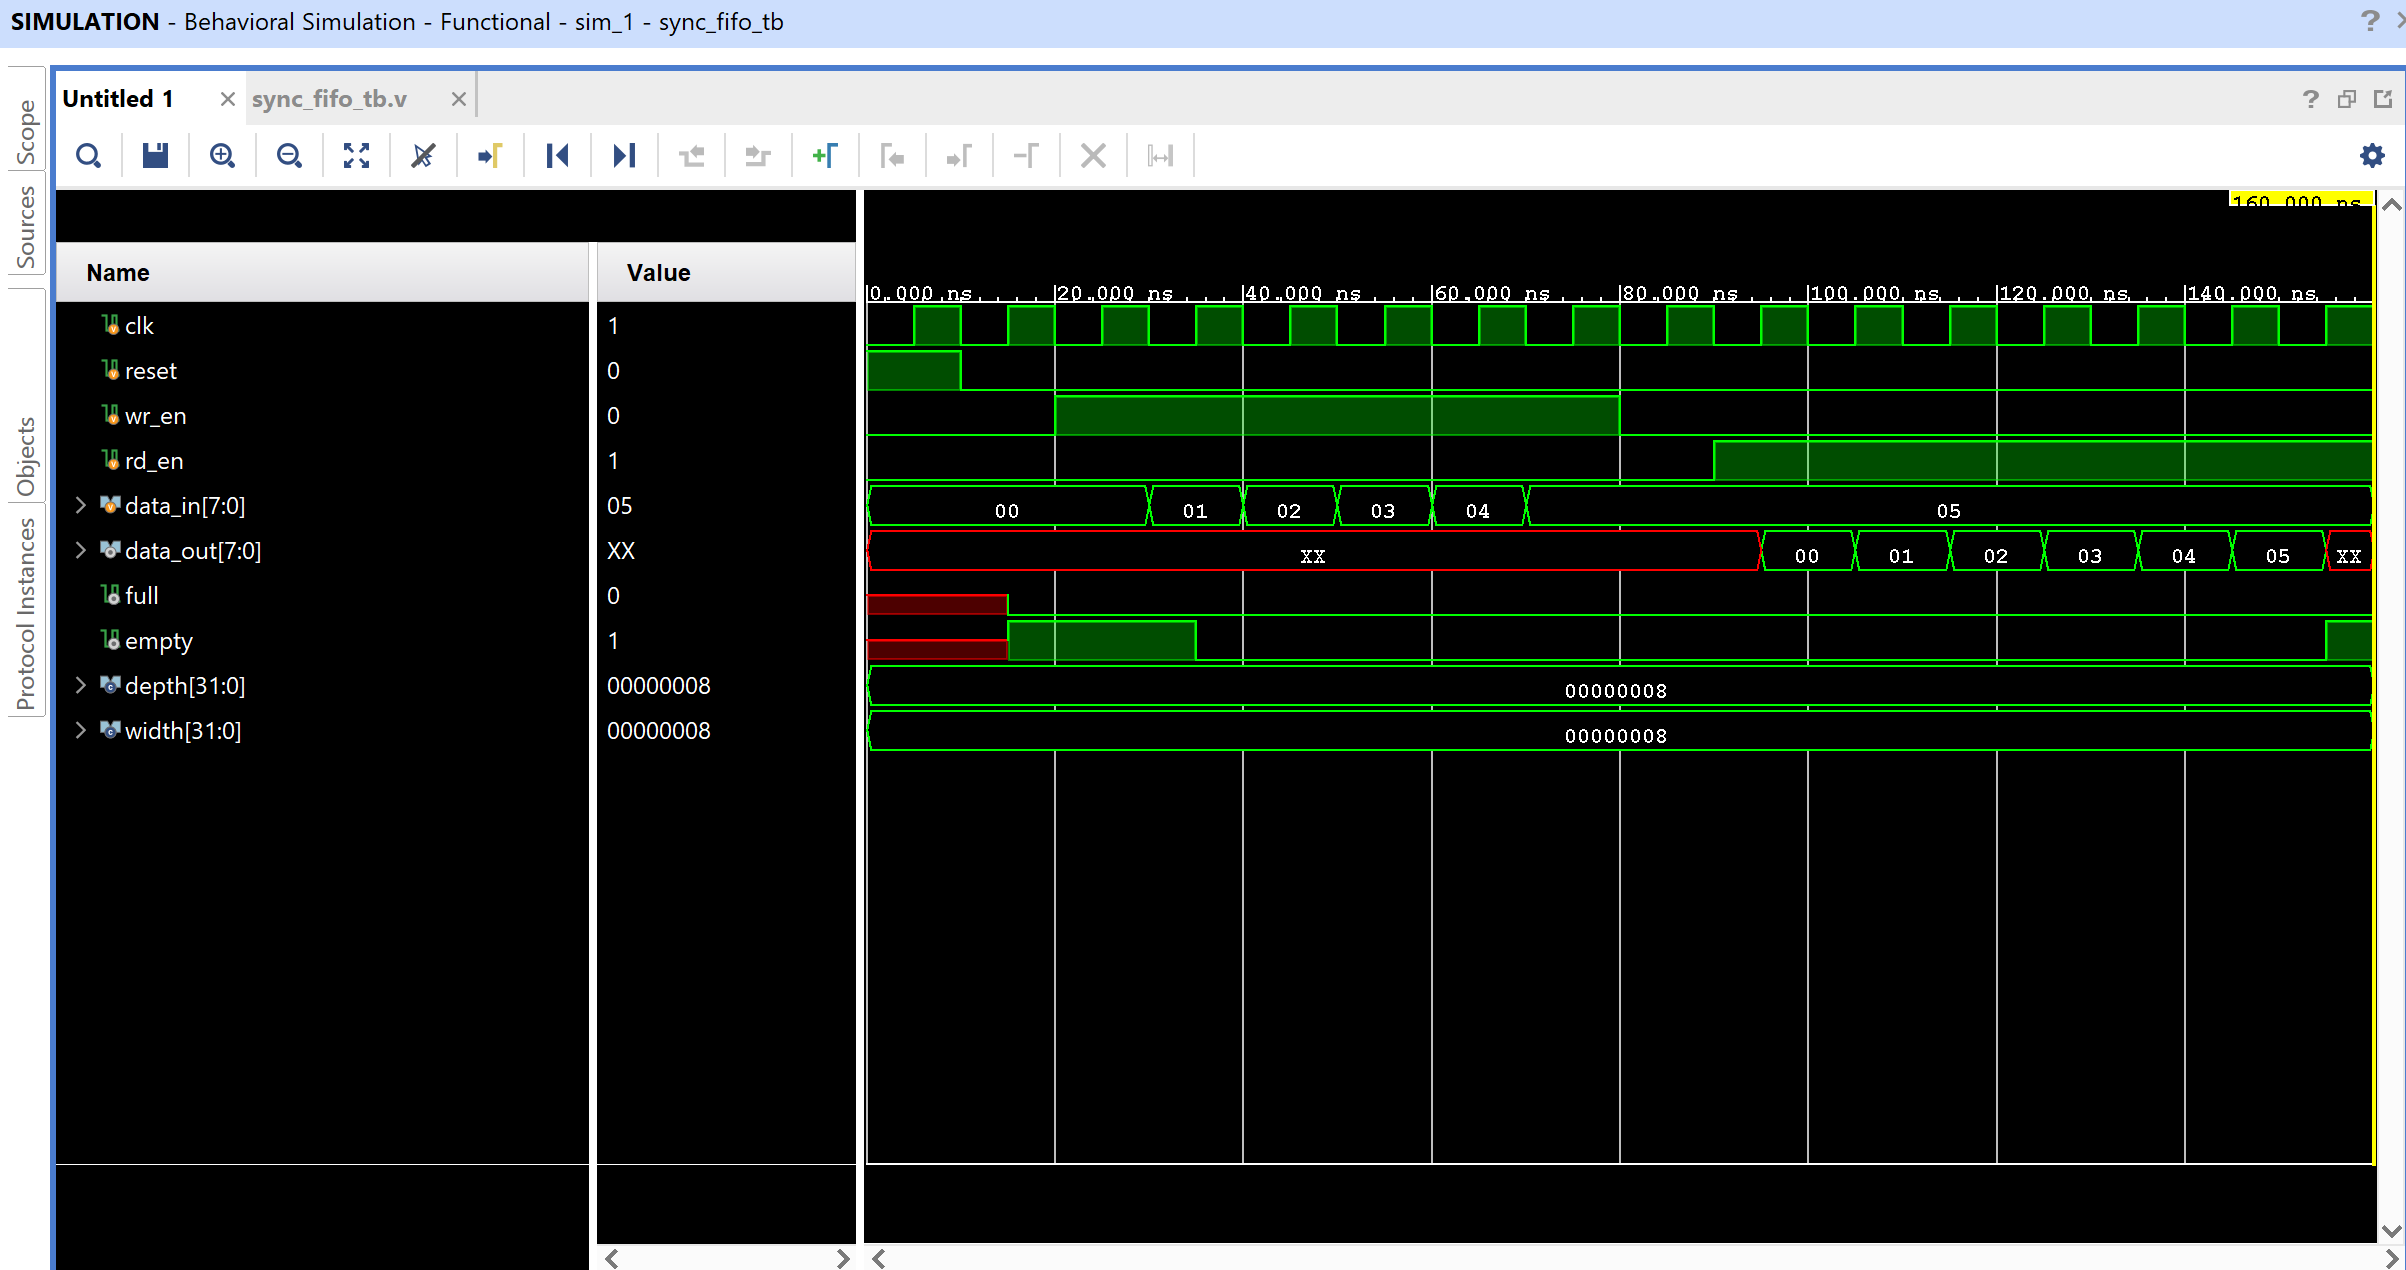
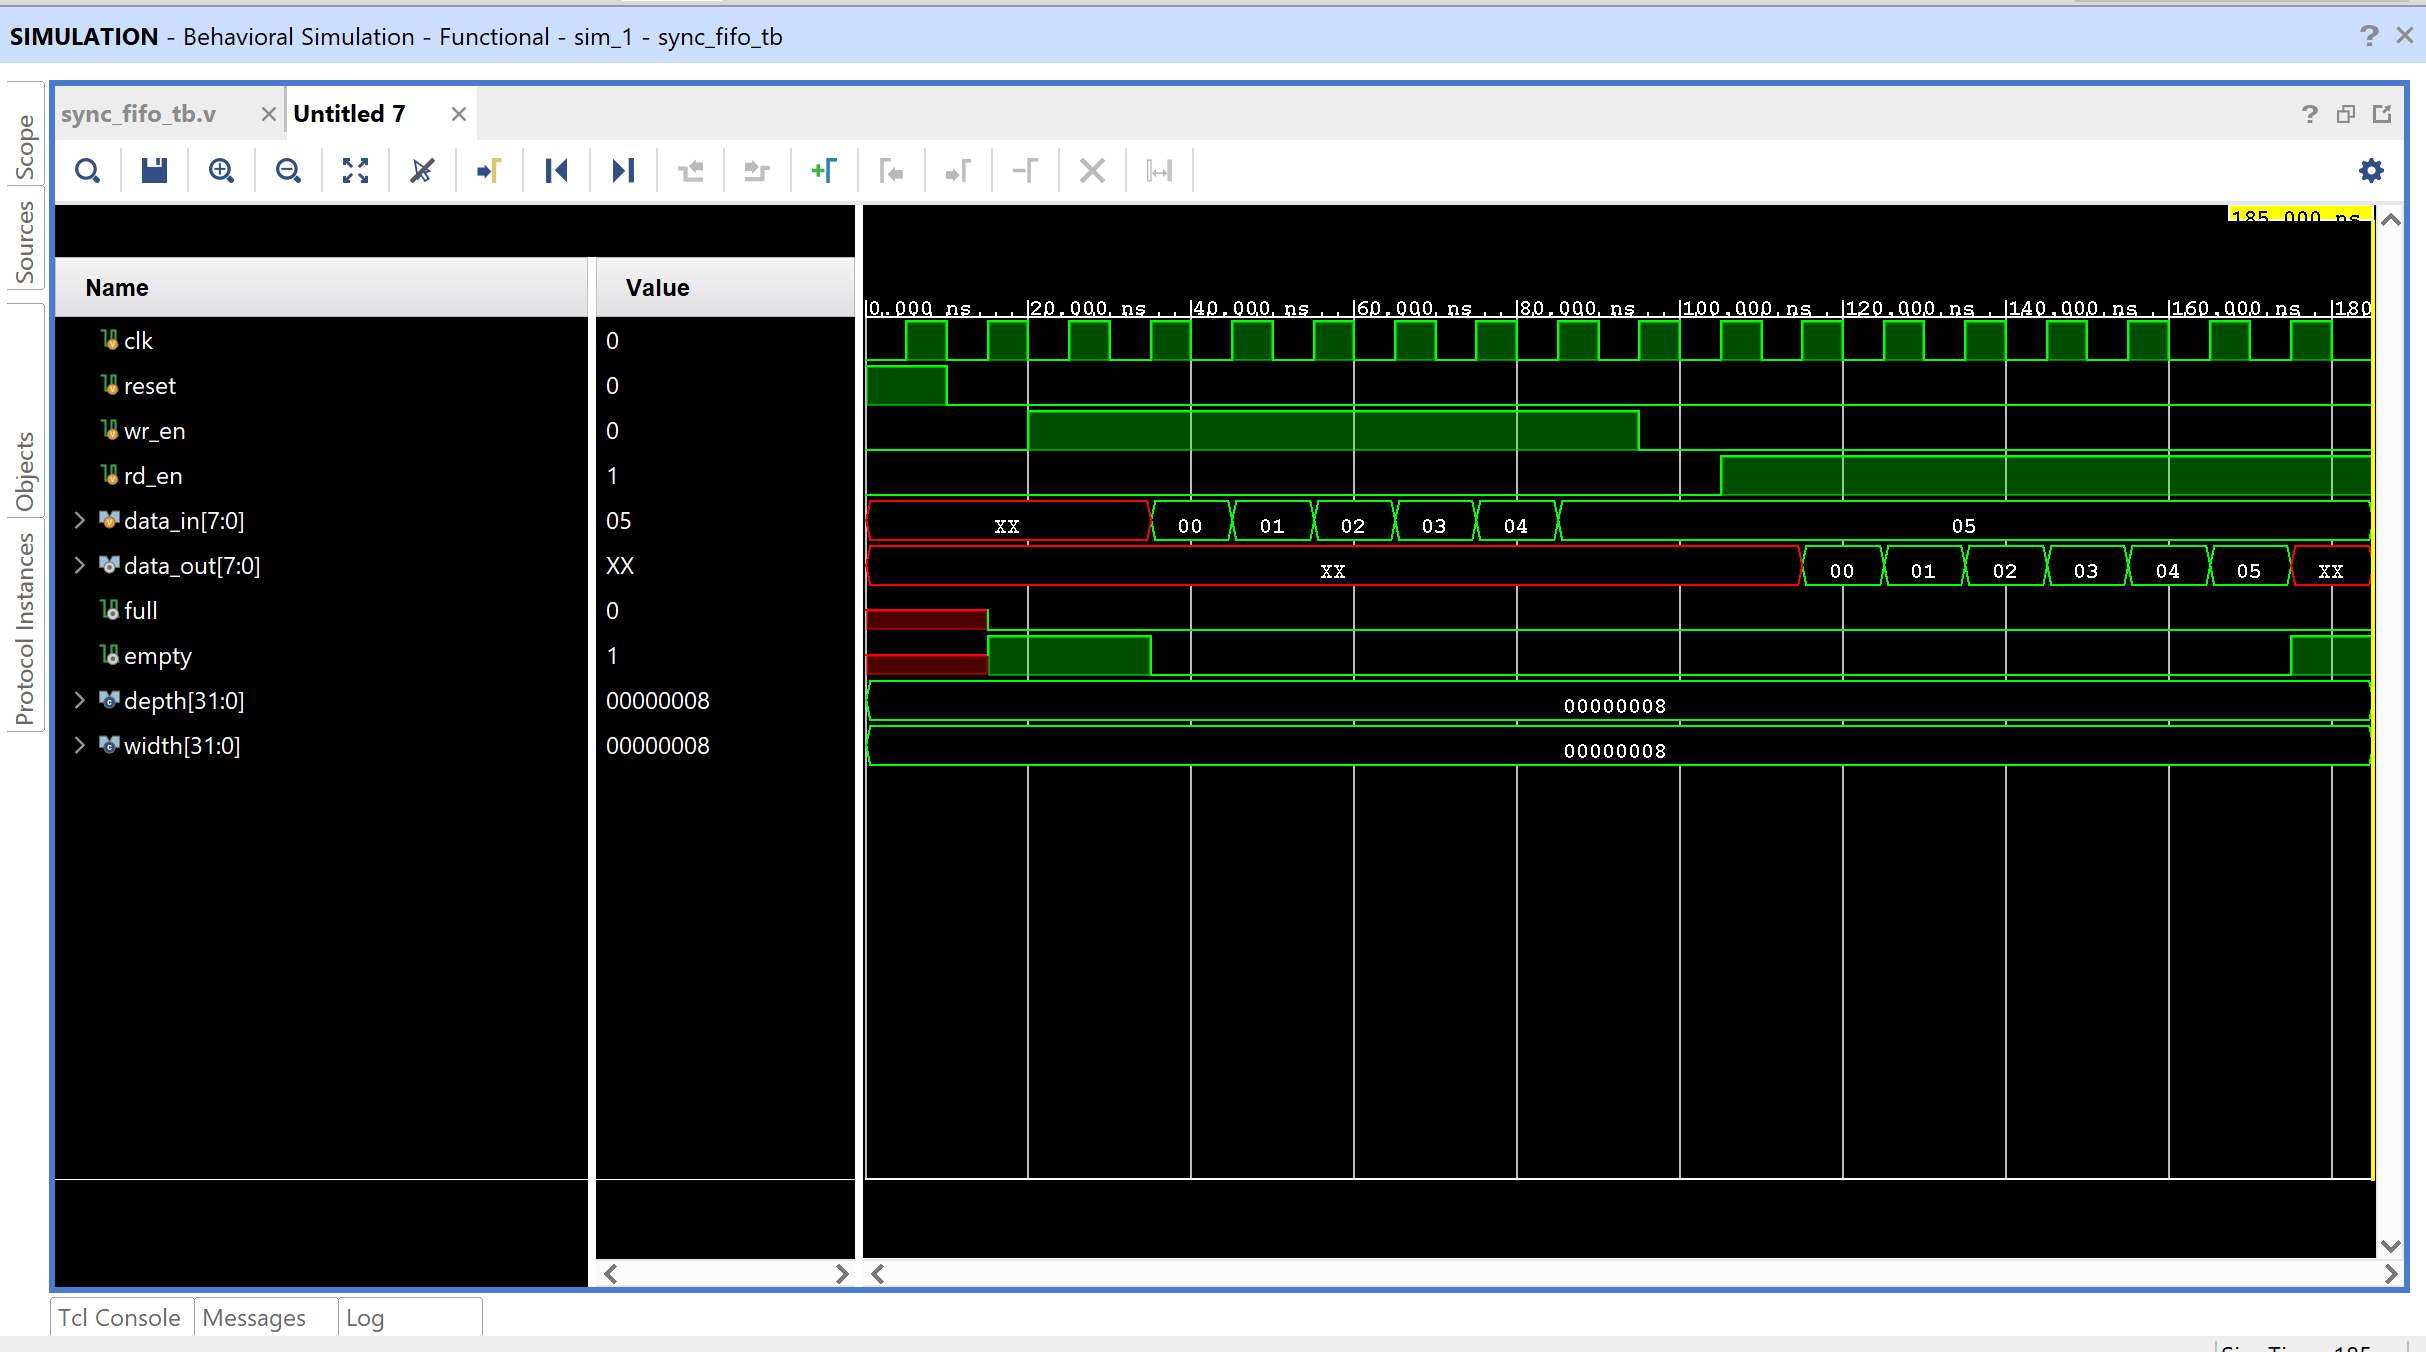
final

diff --git a/readme.md b/readme.md
@@ -12,23 +12,35 @@ This project implements a **parameterized synchronous FIFO** (First-In-First-Out
 
 ---
 
-## 📁 Files Included
-| File Name        | Description                                |
-|------------------|--------------------------------------------|
-| `sync_fifo.v`     | Main FIFO module                          |
-| `sync_fifo_tb.v`  | Testbench for simulation                  |
-| `waveform.png`    | Simulation waveform output                |
-| `README.md`       | Project documentation                     |
+## 🧾 Variables Table
+| Variable     | Type              | Description                                    |
+|--------------|-------------------|------------------------------------------------|
+| `data_in`    | Input [width-1:0] | Data to be written into FIFO                   |
+| `clk`        | Input             | System clock                                   |
+| `wr_en`      | Input             | Write enable signal                            |
+| `rd_en`      | Input             | Read enable signal                             |
+| `reset`      | Input             | Synchronous reset                              |
+| `data_out`   | Output [width-1:0]| Data read from FIFO                            |
+| `full`       | Output            | Flag indicating FIFO is full                   |
+| `empty`      | Output            | Flag indicating FIFO is empty                  |
+| `wr_ptr`     | Internal          | Write pointer                                  |
+| `rd_ptr`     | Internal          | Read pointer                                   |
+| `count`      | Internal          | Number of elements currently in FIFO           |
 
 ---
 
-## 📐 FIFO Block Diagram
+##  FIFO Block Diagram
 
-![FIFO Diagram](fifo_block.png)
+![FIFO Diagram](sync_FIFO.jpg)
+
+- `wr_en`, `data_in`: Write interface
+- `rd_en`, `data_out`: Read interface
+- `clk`, `rst_n`: Clock & active-high reset
+- `full`, `empty`: Status indicators
 
 ---
 
-## 🔧 Parameters
+##  Parameters
 | Parameter | Description               | Default |
 |-----------|---------------------------|---------|
 | `depth`   | Number of FIFO registers  | 8       |
@@ -36,7 +48,7 @@ This project implements a **parameterized synchronous FIFO** (First-In-First-Out
 
 ---
 
-## 🧠 Internal Architecture
+##  Internal Architecture
 - **Write pointer (wr_ptr)** and **Read pointer (rd_ptr)** control data movement
 - **Count register** keeps track of how many entries are stored
 - **`full`** is high when FIFO is completely filled
@@ -44,61 +56,8 @@ This project implements a **parameterized synchronous FIFO** (First-In-First-Out
 
 
 
-
-
 ---
 
-## 🧪 Testbench Strategy
-- Write 6 values to FIFO
-- Then read all values one by one
-- Observe `full`, `empty`, and `data_out`
-
----
-
-## 📷 Waveform & Testbench Explanation
-
-### ✅ Testbench Functionality
-
-The testbench (`sync_fifo_tb.v`) is written to **verify the correct operation** of the synchronous FIFO module through **controlled input stimuli and observations of output responses**.
-
-#### 🔁 Clock Generation
-```verilog
-initial begin
-  clk = 0;
-  forever #5 clk = ~clk;
-end
-```
-- A **10ns period clock** (100 MHz frequency) is generated using a `forever` loop with a toggle every 5ns.
-
-#### 🔄 Reset Phase
-```verilog
-reset = 1;
-#10;
-reset = 0;
-```
-- FIFO is **synchronously reset** for the first 10ns to clear all internal registers like `wr_ptr`, `rd_ptr`, `count`, and flags (`full`, `empty`).
-
-#### ✍ Write Operation
-```verilog
-wr_en = 1;
-data_in = 8'd0; #10;
-...
-data_in = 8'd5; #10;
-```
-- 6 data values (`00` to `05`) are **written sequentially** into the FIFO buffer.
-- `wr_en` is asserted for 6 clock cycles, and `data_in` is updated at every cycle.
-
-#### 📤 Read Operation
-```verilog
-wr_en = 0;
-#10;
-rd_en = 1;
-#70;
-```
-- After writing, there's a **gap cycle** (realistic timing consideration) before reading begins.
-- `rd_en` is enabled, and FIFO **reads out all 6 stored values** one by one at each positive clock edge.
-
----
 
 ### 📈 Waveform Analysis
 
@@ -109,7 +68,7 @@ rd_en = 1;
   - It **outputs values from 00 to 05**, maintaining correct FIFO behavior (First-In-First-Out).
 - `full` remains low throughout because only 6/8 slots are used.
 - `empty` is `1` at the start (FIFO empty) and becomes `0` after data is written.
-- At the end of read phase, `empty` becomes `1` again, indicating **FIFO is drained**.
+- At the end of read phase, `empty` becomes `1` again, indicating **FIFO is empty**.
 
 ✅ This confirms:
 - Proper `write` and `read` pointer increment.
